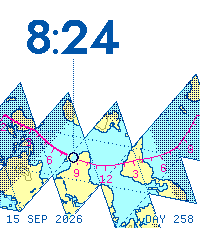
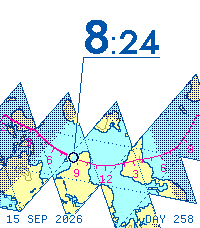
Time callout: the time in full, hung from a shoulder leader
The day strip and an optional callout on the Chart view set the time in
full with the minutes smaller on the same baseline, tied to the body by a
cartographer's elbow leader. The leader is cased in paper, breaks for
lettering and takes whichever side stays clearest. Adds 17 px and 24 px
Jost figure sizes for the callout.

Claude-Session: https://claude.ai/code/session_013jrbqnwLffJYPYurYaCgSZ

Changed region(s): [[0.12, 0.0614, 0.81, 0.4912], [0.36, 0.4912, 0.39, 0.6447]]

diff --git a/src/enroute-render.js b/src/enroute-render.js
@@ -43,7 +43,7 @@ export const CONTOURS=[500,1000,2000,3000,4000,5000],SHELF=-200;
 // above a station's horizon (about 15.6 degrees of arc).
 const EARTH=6371,ORBIT=410,MASK=5*RAD;
 export const ACQUISITION=(Math.acos(EARTH*Math.cos(MASK)/(EARTH+ORBIT))-MASK)/RAD;
-export const FIGURE={scale:40,hour:80,hourTwo:72};
+export const FIGURE={scale:40,hour:80,hourTwo:72,minute:28,callout:28,calloutMinute:20};
 // The time scale registers with the route: its hour marks stand over the
 // two stations, 120 px apart on the zoomed charts, so each minute is exactly
 // two pixels and each graduation sits over its minute on the route. The ISS
@@ -178,7 +178,7 @@ export function renderEnroute({camera,ground,relief,light:zones,plate,epoch,time
   // Tracking stations of the Mercury and Apollo networks, as small circled
   // points with their network codes. On the world band each also shows its
   // acquisition circle, as on the plotboards of the mission control rooms.
-  const stations=[],taken=[];
+  const stations=[],taken=[],type=[];
   // On a whole-orbit Fuller sheet only the stations that can hear the
   // satellite during this hour are shown, each with its acquisition circle.
   const heard=s=>camera.track.some(p=>p.hour&&dot(p.dir,direction(s.lat,s.lon))>=Math.cos(ACQUISITION*RAD));
@@ -195,7 +195,7 @@ export function renderEnroute({camera,ground,relief,light:zones,plate,epoch,time
     }
     for(let dy=-2;dy<=2;dy++)for(let dx=-2;dx<=2;dx++){const r=dx*dx+dy*dy;if(r<=5&&r>=3)plot(buf,x+dx,y+dy,ink('ink')(x,y));}
     plot(buf,x,y,ink('ink')(x,y));
-    letter(textPixels(LABEL,s.code,right?x+5:x-5-w,y+4),ink('ink'));
+    const code=textPixels(LABEL,s.code,right?x+5:x-5-w,y+4);type.push(bounds(code));letter(code,ink('ink'));
   }
   // The route, as the magenta line: bold behind the present, fine ahead,
   // dashed before and after the hour. Ticks every five minutes; the
@@ -219,14 +219,14 @@ export function renderEnroute({camera,ground,relief,light:zones,plate,epoch,time
     let nx=-(b.y-a.y)/len,ny=(b.x-a.x)/len;if(ny<0){nx=-nx;ny=-ny;}
     const hr=Math.round((p.epoch-camera.day.start)/3600000),size=hr%24===0?7:hr%3===0?5:3;
     for(let s=1;s<=size;s++)plot(buf,p.x+nx*s,p.y+ny*s,ink('route')(p.x,p.y));
-    if(hr%3===0){const hh=Number(clockParts(p.epoch,timeZone).h),label=String(clock24?(hr===24?24:hh):hh%12||12),lw=textWidth(LABEL,label);letter(textPixels(LABEL,label,Math.round(p.x+nx*9-lw/2)+1,Math.round(p.y+ny*9+9)),ink('route'),0);}
+    if(hr%3===0){const hh=Number(clockParts(p.epoch,timeZone).h),label=String(clock24?(hr===24?24:hh):hh%12||12),lw=textWidth(LABEL,label),q=textPixels(LABEL,label,Math.round(p.x+nx*9-lw/2)+1,Math.round(p.y+ny*9+9));type.push(bounds(q));letter(q,ink('route'),0);}
   }
   for(let i=1;i<track.length-1&&!camera.day;i++){
     const p=track[i];if(!p.hour)continue;const m=Math.round((p.epoch-s0.epoch)/MINUTE);
     if((p.epoch-s0.epoch)%MINUTE||m<=0||m>=60||(camera.world&&m%5))continue;
     const a=track[i-1],b=track[i+1],len=Math.hypot(b.x-a.x,b.y-a.y)||1;let nx=-(b.y-a.y)/len,ny=(b.x-a.x)/len;if(ny<0){nx=-nx;ny=-ny;}
     const size=camera.world?(m%15===0?4:2):m%15===0?6:m%5===0?4:2;for(let s=1;s<=size;s++)plot(buf,p.x+nx*s,p.y+ny*s,ink('route')(p.x,p.y));
-    if(!camera.world&&m%15===0){const label=String(m),lw=textWidth(LABEL,label);letter(textPixels(LABEL,label,Math.round(p.x+nx*8-lw/2)+1,Math.round(p.y+ny*8+9)),ink('route'),0);}
+    if(!camera.world&&m%15===0){const label=String(m),lw=textWidth(LABEL,label),q=textPixels(LABEL,label,Math.round(p.x+nx*8-lw/2)+1,Math.round(p.y+ny*8+9));type.push(bounds(q));letter(q,ink('route'),0);}
   }
   // This hour's station is a VOR: a hexagon inside a compass rose, north up.
   // The next hour is an open triangle, a reporting point.
@@ -275,6 +275,29 @@ export function renderEnroute({camera,ground,relief,light:zones,plate,epoch,time
   const outline=(solid,ring)=>{const inside=new Set(solid.map(([a,b])=>a+','+b)),near=[];for(let r=1;r<=ring;r++)near.push([r,0],[-r,0],[0,r],[0,-r]);return solid.filter(([a,b])=>near.some(([dx,dy])=>!inside.has((a+dx)+','+(b+dy))));};
   const place=(end,w)=>Math.max(4,Math.min(W-4-w,Math.round(end-w/2)));
   let hourPixels,nextSolid,index,minuteBox=null;
+  // A time callout, labelled the way a chart labels a feature: the time in
+  // full, the minutes smaller on the same baseline as on a cockpit clock,
+  // hung from a shoulder, the cartographer's elbow leader, that runs back
+  // to the body. The leader is cased with a hairline of paper so it crosses
+  // relief cleanly, and it breaks for lettering, as a printed line does.
+  const callout=({big,small,x:bx,y:by,up,reach})=>{
+    const gap=gapFor(big),colon=gapFor(big)+1,hw=runWidth(hour,big),cw=glyph(small,':').width,mw=runWidth(parts.m,small),fw=hw+colon+cw+colon+mw;
+    const fh=runHeight(big),sh=runHeight(small),sy=up?by-reach:by+reach;
+    const open=([x,y])=>!type.some(b=>x>=b.x-2&&x<b.x+b.w+2&&y>=b.y-2&&y<b.y+b.h+2);
+    // Hang the time on whichever side keeps it on the face and its leader
+    // clearest of lettering, toward the middle of the face if both do.
+    const layout=side=>{
+      const sx=bx+side*10,fx=Math.max(4,Math.min(W-4-fw,side>0?sx+2:sx-2-fw)),d=Math.hypot(sx-bx,sy-by),line=[];
+      segment({x:bx+(sx-bx)/d*9,y:by+(sy-by)/d*9},{x:sx,y:sy},(x,y)=>line.push([x,y]));segment({x:sx,y:sy},{x:side>0?fx+fw:fx-1,y:sy},(x,y)=>line.push([x,y]));
+      const shown=line.filter(open),fits=side>0?sx+2+fw<=W-4:sx-2-fw>=4;
+      return {fx,shown,score:(fits?0:1000)+(line.length-shown.length)*10+(side===(bx<W/2?1:-1)?0:1)};
+    };
+    const {fx,shown}=[layout(1),layout(-1)].sort((a,b)=>a.score-b.score)[0];
+    const fy=up?sy-3-fh:sy+3,mx0=fx+hw+colon;
+    const figure=[...figurePixels(hour,big,fx,fy),...figurePixels(':',small,mx0,fy+fh-sh),...figurePixels(parts.m,small,mx0+cw+colon,fy+fh-sh)];
+    letter(shown,ink('ink'));letter(figure,ink('ink'));
+    return {figure,box:bounds(figure)};
+  };
   if(camera.world){
     const {baseline:B,panel:P}=SCALE,sc=()=>pal.spaceInk,fill=pal.route[0];
     for(let y=0;y<P;y++)for(let x=0;x<W;x++)plot(buf,x,y,pal.space);
@@ -298,25 +321,20 @@ export function renderEnroute({camera,ground,relief,light:zones,plate,epoch,time
     }
   }else if(camera.day){
     // A whole day is too long a scale to read minutes from, so the strip
-    // carries the time in full, hours and minutes, over the body; the
-    // strip's own figures carry the rest of the day.
-    // It stands in the open paper above the net where there is room, tied
-    // to the body by a dotted leader, like a callout on a chart.
-    const time=`${hour}:${parts.m}`,size=FIGURE.scale,hw=runWidth(time,size),fh=runHeight(size);
-    const netTop=Math.max(0,Math.min(...camera.tiles.map(t=>t.box[1]))),above=my-18-fh;
-    const gy=netTop>=fh+16?Math.round((netTop-fh)/2):above>=4?above:my+18;
-    hourPixels=figurePixels(time,size,place(mx,hw),gy);nextSolid=[];letter(hourPixels,ink('ink'));
-    if(gy+fh<my-18)for(let y=gy+fh+5;y<=my-10;y+=2)plot(buf,mx,y,ink('ink')(mx,y));
-    index={x:mx,y:my};
+    // carries a time callout, in the open paper above the net where there
+    // is room, otherwise below the body.
+    const fh=runHeight(FIGURE.scale),netTop=Math.max(0,Math.min(...camera.tiles.map(t=>t.box[1]))),up=netTop>=fh+16||my-26-fh>=4;
+    const reach=netTop>=fh+16?my-(Math.round((netTop-fh)/2)+fh+3):26;
+    const c=callout({big:FIGURE.scale,small:FIGURE.minute,x:mx,y:my,up,reach});
+    hourPixels=c.figure;nextSolid=[];index={x:mx,y:my};
   }else{
     const size=hour.length>1||next.length>1?FIGURE.hourTwo:FIGURE.hour,hw=runWidth(hour,size),nw=runWidth(next,size),gy=c0.y-26-runHeight(size);
     hourPixels=figurePixels(hour,size,place(c0.x,hw),gy);nextSolid=figurePixels(next,size,place(c1.x,nw),gy);
     letter(hourPixels,ink('ink'));letter(outline(nextSolid,2),ink('ink'));
     index={x:ix,y:c0.y};
     if(readout){
-      // Optional digital minute, set plainly over the body.
-      const lw=textWidth(LABEL,parts.m),lx=Math.max(4,Math.min(W-4-lw,Math.round(mx-lw/2)));
-      letter(textPixels(LABEL,parts.m,lx,c0.y-11),ink('mark'),1);minuteBox={x:lx,y:c0.y-19,w:lw,h:8};
+      // Optional time callout, under the route, clear of the hour figures.
+      minuteBox=callout({big:FIGURE.callout,small:FIGURE.calloutMinute,x:mx,y:my,up:false,reach:26}).box;
     }
   }
   // Margins: the ISS archive and altitude; otherwise the date in the chart's
@@ -334,7 +352,7 @@ export function renderEnroute({camera,ground,relief,light:zones,plate,epoch,time
     margin(`${String(d.day).padStart(2,'0')} ${MONTHS[d.month-1]} ${d.year}`,`DAY ${String(d.dayOfYear).padStart(3,'0')}`,H-5,ink('ink'));
   }
   return {buf,marker:{x:p.x,y:p.y,lat:body.lat,lon:body.lon},stations,
-    figure:{hour,minute:parts.m,next,time:camera.day?`${hour}:${parts.m}`:null,box:bounds(hourPixels),nextBox:bounds(nextSolid),index,scale:{x0:X0,x1:X1},readout:minuteBox},rose:camera.world?null:{...c0,r:20}};
+    figure:{hour,minute:parts.m,next,time:camera.day||readout?`${hour}:${parts.m}`:null,box:bounds(hourPixels),nextBox:bounds(nextSolid),index,scale:{x0:X0,x1:X1},readout:minuteBox},rose:camera.world?null:{...c0,r:20}};
 }
 // The calendar date where the watch is, and its day of the year.
 const dateFormats=new Map();

diff --git a/index.html b/index.html
@@ -9,10 +9,10 @@
 <fieldset><legend>Follow</legend><div class="segmented"><button data-body="sun" aria-pressed="true">Sun</button><button data-body="moon" aria-pressed="false">Moon</button><button data-body="iss" aria-pressed="false">ISS archive</button></div><p class="help" id="body-note"></p></fieldset>
 <fieldset id="live-satellites"><legend>Live satellites</legend><div class="live-row"><select id="sat-select" aria-label="Satellite"></select><button id="sat-track">Track now</button></div><p class="help" id="sat-status">Current orbital elements come from CelesTrak, at most once every two hours per satellite, and are used only within three days of their own epoch.</p></fieldset>
 <fieldset id="moon-light"><legend>Moonlight</legend><div class="segmented"><button data-observation="day" aria-pressed="true">By day</button><button data-observation="dusk" aria-pressed="false">Nightfall</button><button data-observation="night" aria-pressed="false">By night</button></div><p class="help">The same Moon over three evenings. On the paper plates, night is a printed dot tint that deepens through civil twilight.</p></fieldset>
-<fieldset><legend>Projection</legend><div class="segmented"><button data-projection="chart" aria-pressed="true">Chart</button><button data-projection="fuller" aria-pressed="false">Rolling Fuller</button></div><p class="help" id="projection-note">A spike: the icosahedron rolls along the route, printing each face as it touches down, and floats as a net on the paper: the route’s faces and their true neighbours, with no cuts. Time runs left to right; the compass rose shows where north is. The Sun and Moon show their whole local day as one rolled strip, with the time in full over it.</p></fieldset>
+<fieldset><legend>Projection</legend><div class="segmented"><button data-projection="chart" aria-pressed="true">Chart</button><button data-projection="fuller" aria-pressed="false">Rolling Fuller</button></div><p class="help" id="projection-note">A spike: the icosahedron rolls along the route, printing each face as it touches down, and floats as a net on the paper: the route’s faces and their true neighbours, with no cuts. Time runs left to right; the compass rose shows where north is. The Sun and Moon show their whole local day as one rolled strip, with a time callout over it.</p></fieldset>
 <fieldset><legend>Plate</legend><div id="enroute-plates" class="theme-options"></div></fieldset>
-<fieldset><legend>Read the chart</legend><p class="help">The hour figures stand over their stations: this hour solid over its compass rose, the next outlined over its reporting point. Between them the magenta route is a graduated scale, two pixels a minute, with longer marks at five and fifteen minutes and the quarters numbered. The Sun or Moon symbol is the index; the bold line behind it is the hour already flown. On the ISS world view the same scale is set in a panel above the map, with a triangular index. A plain minute figure can be added under Clock. Contours fall every 1,000 m, dotted at 500 m; offshore, the dotted blue line is the 200 m edge of the continental shelf. Three-letter codes are the tracking stations of NASA’s Mercury and Apollo networks. The margin carries the date and its day of the year.</p></fieldset>
-<details class="art-options"><summary>Clock</summary><div><label class="select-label" for="enroute-zone">Clock zone<select id="enroute-zone"><option value="America/New_York">Eastern time</option><option value="UTC">UTC</option><option value="Europe/London">London</option><option value="Asia/Kolkata">Kolkata</option></select></label><label class="art-checkbox"><input type="checkbox" id="enroute-24"> 24-hour figures</label><label class="art-checkbox"><input type="checkbox" id="enroute-readout"> Minute figure over the index</label></div></details><div class="art-study-date"><span id="enroute-date"></span><span>FROZEN STUDY</span></div></aside></section>
+<fieldset><legend>Read the chart</legend><p class="help">The hour figures stand over their stations: this hour solid over its compass rose, the next outlined over its reporting point. Between them the magenta route is a graduated scale, two pixels a minute, with longer marks at five and fifteen minutes and the quarters numbered. The Sun or Moon symbol is the index; the bold line behind it is the hour already flown. On the ISS world view the same scale is set in a panel above the map, with a triangular index. Under Clock, a time callout can give the time in full, hung from a leader to the body. Contours fall every 1,000 m, dotted at 500 m; offshore, the dotted blue line is the 200 m edge of the continental shelf. Three-letter codes are the tracking stations of NASA’s Mercury and Apollo networks. The margin carries the date and its day of the year.</p></fieldset>
+<details class="art-options"><summary>Clock</summary><div><label class="select-label" for="enroute-zone">Clock zone<select id="enroute-zone"><option value="America/New_York">Eastern time</option><option value="UTC">UTC</option><option value="Europe/London">London</option><option value="Asia/Kolkata">Kolkata</option></select></label><label class="art-checkbox"><input type="checkbox" id="enroute-24"> 24-hour figures</label><label class="art-checkbox"><input type="checkbox" id="enroute-readout"> Time callout</label></div></details><div class="art-study-date"><span id="enroute-date"></span><span>FROZEN STUDY</span></div></aside></section>
 <section class="compare"><div class="section-heading"><p class="eyebrow">AT READING SIZE</p><p>One display pixel per pixel. The same minute on each plate.</p></div><div id="enroute-proofs" class="comparison-grid"></div></section>
 <section class="reading art-reading"><article><p class="eyebrow">THE CHART</p><h2>Real ground, lightly drawn.</h2><p>Relief comes from NOAA’s ETOPO1 and the USGS GMTED2010 elevation models, generalized and contoured like a jet navigation chart. The continental shelf edge is the real 200 m depth line. Small crosses mark every five degrees, and degree ticks run around the edge like a neatline.</p></article><article><p class="eyebrow">THE ROUTE</p><h2>Two fixes and a magenta line.</h2><p>This hour is a VOR in its compass rose; the next is a reporting point. The route is the magenta line pilots follow on every modern display. The route itself is graduated like a ruler, a mark every minute between the two fixes; the body on it is the index.</p></article><article><p class="eyebrow">THE NETWORK</p><h2>Where the astronauts were heard.</h2><p>Codes like TAN, CRO and GDS mark stations of the Mercury and Apollo tracking networks. For the ISS, each carries its acquisition circle, the reach of a low orbit, as drawn on the world maps of the first mission control rooms.</p></article></section>
 <details class="technical"><summary>About this working study</summary><div><p>This is a browser design study, not an installable watchface. Every watch pixel is one of the display’s 64 RGB222 colors. The map is north-up and equidistant cylindrical; for the Sun and Moon the hour’s two stations sit 120 pixels apart, directly under the time scale’s hour marks, and the ISS, which travels about 240° of longitude in an hour, is shown on a world band. Scenes are frozen until you interact: there is no animation loop, polling, geolocation or sensor use.</p><p>Coastlines are Natural Earth 1:50m land. Relief is a quarter-degree grid built from the AWS Open Data Terrain Tiles at zoom 3, whose sources there are NOAA ETOPO1 and USGS GMTED2010, both public domain; heights are smoothed before contouring and are not for navigation. Day, civil twilight and night come from the calculated Sun at the selected minute. Tracking-station positions are approximate, from public histories of the networks. Acquisition circles show where a 410 km orbit rises five degrees above each station’s horizon, about 15.6° of arc.</p><p>Sun and Moon positions come from Astronomy Engine. The “ISS archive” view uses a bounded June 5, 2019 element set from Satellite.js. Live satellites use current element sets fetched from CelesTrak by this page (at most once every two hours per satellite, and only within three days of their epoch) and propagated with SGP4. Figures are Jost, after Futura; chart lettering is Departure Mono by Helena Zhang; headlines are Michroma, after Microgramma. All three are SIL OFL 1.1. <a href="./NOTICE.txt">Sources and credits</a>.</p><p id="enroute-diagnostics"></p><p>Other studies: <a href="./study-05.html">chart</a> · <a href="./study-04.html">Shorelight</a> · <a href="./study-03.html">two-ink atlas</a> · <a href="./study-02.html">sculptural globe</a> · <a href="./study-01.html">orbital explorer</a>.</p></div></details>

diff --git a/tools/generate-enroute-font.py b/tools/generate-enroute-font.py
@@ -12,7 +12,7 @@ from PIL import Image, ImageDraw, ImageFont
 
 root = Path(__file__).resolve().parent.parent
 WEIGHT = 600
-HEIGHTS = {'40': 34, '72': 49, '80': 55}  # scale panel (ISS); two-digit and single-digit hours on the chart
+HEIGHTS = {'20': 17, '28': 24, '40': 34, '72': 49, '80': 55}  # callout minutes and hours; scale panel (ISS); two-digit and single-digit hours on the chart
 
 
 def font(size):

diff --git a/docs/STUDY-06.md b/docs/STUDY-06.md
@@ -11,7 +11,7 @@ The Study 05 chart, redrawn in the language of aeronautical charts and of NASA's
 - **Graticule.** Small crosses every 5° (30° on the ISS world band). Degree ticks run around the edge of the map like a chart's neatline, with a longer tick every 5°.
 - **The route.** The magenta line, which pilots follow on every glass cockpit. It is bold behind the marker, fine ahead and dashed before and after the hour. Ticks mark five minutes, with longer ticks labelled 15, 30 and 45 at the quarters, as on a plotted ground track.
 - **Fixes.** This hour's station is a VOR: a hexagon inside a compass rose, with 30° ticks, longer cardinal ticks and a north arrowhead. The next hour is an open triangle, a reporting point. The map is north-up, so the rose shows true north, not magnetic variation.
-- **The time scale.** On the Sun and Moon charts the route itself is the scale. The hour's two stations sit exactly 120 px apart, so each minute is exactly two pixels along the magenta line. There is a graduation every minute, longer marks every five and fifteen minutes, and the quarters are numbered 15, 30 and 45 beneath. The body's own symbol is the index moving along it. The two hour figures stand in the chart over their stations at one size and on one baseline: this hour solid over its compass rose, the next outlined over its reporting point. The figures, graduations and symbols read as one drawing. On the ISS world band the same reading is set in a panel above the map, built like an instrument tape: 180 px for the hour, three pixels a minute, tall hour marks under the figures and a solid triangular index, running the way the route runs. An optional plain minute figure can be set over the index. The earlier radar-style data block, the minutes raised beside the hour and a separate scale panel over the zoomed charts were all tried and dropped.
+- **The time scale.** On the Sun and Moon charts the route itself is the scale. The hour's two stations sit exactly 120 px apart, so each minute is exactly two pixels along the magenta line. There is a graduation every minute, longer marks every five and fifteen minutes, and the quarters are numbered 15, 30 and 45 beneath. The body's own symbol is the index moving along it. The two hour figures stand in the chart over their stations at one size and on one baseline: this hour solid over its compass rose, the next outlined over its reporting point. The figures, graduations and symbols read as one drawing. On the ISS world band the same reading is set in a panel above the map, built like an instrument tape: 180 px for the hour, three pixels a minute, tall hour marks under the figures and a solid triangular index, running the way the route runs. An optional **time callout** gives the time in full below the route, labelled the way a chart labels a feature. The minutes are set smaller than the hour on the same baseline, as on a cockpit clock, and the time hangs from a shoulder, the cartographer's elbow leader, that runs back to the body. The leader is cased with a hairline of paper so it crosses relief cleanly. It breaks for lettering, as a printed line does, and takes whichever side keeps it clearest. A pointer with an arrowhead, a VFR-style pennant and a plain dotted line were also tried; at this pixel size the arrowhead and pennant are too small to read, and the dotted line was too plain. The earlier radar-style data block, the minutes raised beside the hour and a separate scale panel over the zoomed charts were all tried and dropped.
 - **Date.** The zoomed views print the local date and its day of the year in the bottom margin (`27 SEP 2026 · DAY 270`). The day of the year is how Mission Control's clocks counted days. The ISS margin keeps its archive date and altitude.
 - **The present.** The body's own symbol: ☉ for the Sun, the Moon in its calculated phase, or a small station for the ISS.
 - **The network.** Twenty-four stations of the Mercury (1961–63) and Apollo (1967–75) tracking networks, drawn as circled points with their network codes. Examples include TAN (Tananarive, Madagascar), ZZB (Zanzibar), CRO (Carnarvon) and GDS (Goldstone). When labels would collide, the station earlier in the list wins.
@@ -42,7 +42,7 @@ The spike (`src/roll.js`, *Projection → Rolling Fuller* on the page) rolls the
 
 The current version is a **floating net**, a true net of the icosahedron grown from the route. The faces the route rolls over come first; then up to two rings of neighbours are added, nearest the middle of the hour first. Each face is printed at most once, so no place ever appears beside a copy of itself, and a face joins only where it truly meets every face already printed beside it. Neighbouring faces are therefore always consecutive on the globe, and the net contains no cuts at all. A satellite's strip is also kept under one lap (the hour plus ten minutes either side, against the ISS's 92-minute orbit), so the route never rolls back over its own faces. Folds inside it are quiet dotted lines, its outline is inked, and the rest of the view is plain paper (or dark glass on the Plotboard). The camera turns the net so the hour runs left to right like a ruler, and the compass rose points to true north, because north is no longer up. On a whole-orbit net only the 2,000 m and 4,000 m contours remain, and only the tracking stations that can hear the satellite during this hour are drawn, each with its acquisition circle.
 
-It suits satellites best. On the Gray–Fuller faces great circles are nearly straight, so an ISS hour, about 240° of orbit, unrolls into a zigzag band of four or five faces, with the orbit as a near-straight graduated line through the middle. Small kinks remain at face edges, because the transform is not exactly gnomonic and the Earth turns beneath the orbit. For the Sun and Moon an hour covers only part of one face, so on the Fuller sheet they show the **whole local day** instead, midnight to midnight. That is 23 or 25 hours across a daylight-saving change. The day rolls out as a band of the net running left to right, with a tick every hour, the hours numbered every three and the two midnights marked longest. The day so far is bold, and the body is the index. A day is too long a scale to read minutes from, so the time is given in full, hours and minutes (4:24), in the open paper above the net. A dotted leader ties it to the body, like a callout on a chart. When the net leaves no room above, the time sits over the body instead. Near an equinox the Sun's day is almost a great circle and lies nearly straight. The Moon's, or the Sun's near a solstice, runs well away from the equator, and a circle of latitude unrolls as an arc, the way a cone flattens into a fan. The view therefore fits the whole arc, not just its chord.
+It suits satellites best. On the Gray–Fuller faces great circles are nearly straight, so an ISS hour, about 240° of orbit, unrolls into a zigzag band of four or five faces, with the orbit as a near-straight graduated line through the middle. Small kinks remain at face edges, because the transform is not exactly gnomonic and the Earth turns beneath the orbit. For the Sun and Moon an hour covers only part of one face, so on the Fuller sheet they show the **whole local day** instead, midnight to midnight. That is 23 or 25 hours across a daylight-saving change. The day rolls out as a band of the net running left to right, with a tick every hour, the hours numbered every three and the two midnights marked longest. The day so far is bold, and the body is the index. A day is too long a scale to read minutes from, so the day strip always carries the time callout, set larger, in the open paper above the net. When the net leaves no room above, the callout hangs below the body instead. Near an equinox the Sun's day is almost a great circle and lies nearly straight. The Moon's, or the Sun's near a solstice, runs well away from the equator, and a circle of latitude unrolls as an arc, the way a cone flattens into a fan. The view therefore fits the whole arc, not just its chord.
 
 ![Rolling Fuller spike proofs](screenshots/study-06-fuller-contact-sheet.png)
 
